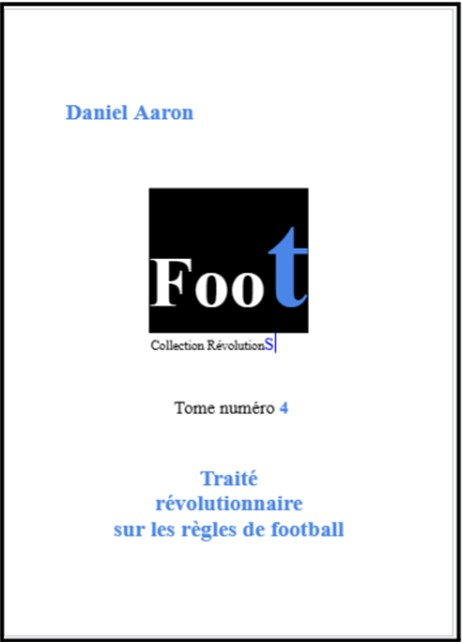
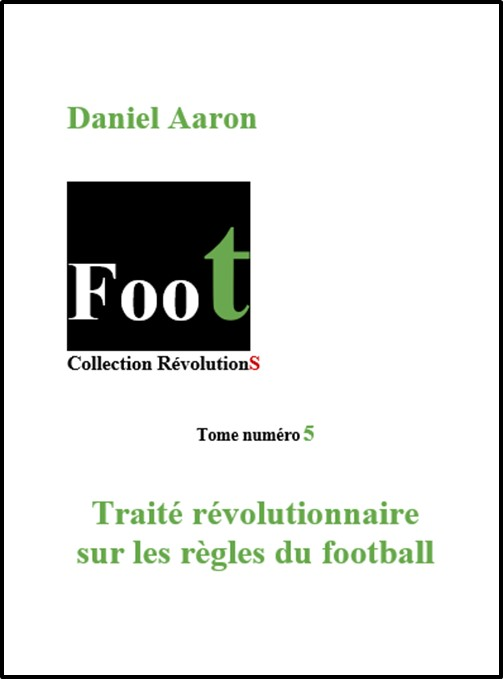
MAJ

diff --git a/index.html b/index.html
@@ -343,17 +343,16 @@
             <div class="back">
               <figure>
                 <img src="images/tome4.jpg" alt="Une image contenant graphisme, capture d’écran, affiche, Graphique"
-                  class="log">
+                  class="log1">
               </figure>
-              <h2>5 Décembre 2023</h2>
+              <h2 class="foot">5 Décembre 2023</h2>
               <h3>PRIX: 9€</h3>
               <p>
-                Pamphlet pour expliquer pourquoi écrire, pourquoi RévolutionS. Un titre originel qui a surgit il y a
-                plus de 10 ans déjà
-                et qui est né suite à une question posée par un journaleux local et qui a failli me tuer.
+                Pamphlet passionné et révolutionnaire sur le sport le plus populaire.
+                Un traité de cinquante pages pour réinventer les règles du football et lui permettre d’extirper ses démons.
               </p>
               <form method="post" action="page.html">
-                <input type="submit" value="Disponible Bientôt" class="boutonJoin">
+                <input type="submit" value="Disponible Bientôt" class="boutonJoinFoot">
               </form>
             </div>
 

diff --git a/style.css b/style.css
@@ -442,6 +442,15 @@ h5 {
     cursor: pointer;
 }
 
+.log1 {
+    width: 50%;
+    align-items: center;
+    cursor: pointer;
+}
+
+/*CODE COULEUR DES LIVRES*/
+/*Femmes*/
+
 .boutonJoin {
     color: rgba(204, 0, 0, 1);
     border: 1px solid rgba(204, 0, 0, 1);
@@ -453,14 +462,35 @@ h5 {
     transition: .5s ease-in-out;
 }
 
-/* Pour animer et améliorer le design des 3 blocs 
-contenant la description des différentes formules proposée*/
-
 .boutonJoin:hover {
     background: rgba(204, 0, 0, 1);
     color: white;
     cursor: pointer;
 }
+
+/*Foot*/
+.boutonJoinFoot {
+    color: rgba(103, 169, 75, 1);
+    border: 1px solid rgba(103, 169, 75, 1);
+    background: none;
+    border-radius: 8px;
+    font-size: 1.3em;
+    margin-top: 20px;
+    padding: 10px 80px 10px 80px;
+    transition: .5s ease-in-out;
+}
+
+.boutonJoinFoot:hover {
+    background:  rgba(103, 169, 75, 1);
+    color: white;
+    cursor: pointer;
+}
+
+.foot {
+    color:  rgba(103, 169, 75, 1);
+    justify-content: center;
+}
+
 
 /* info */
 
